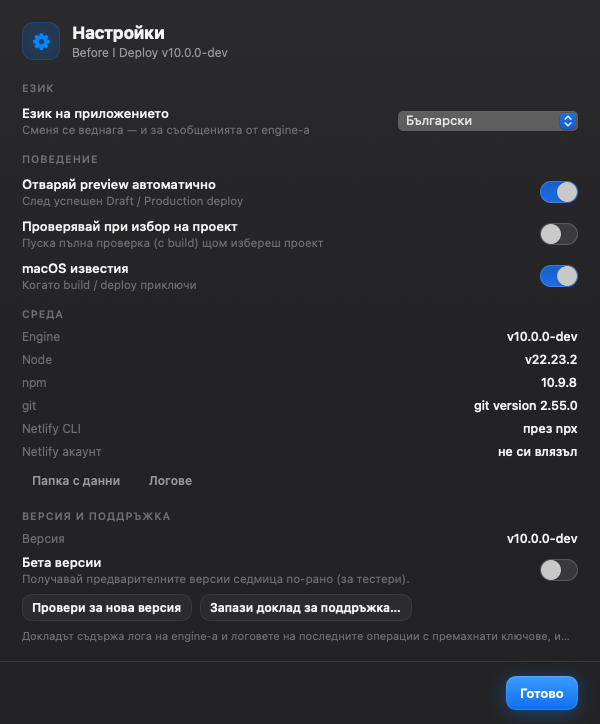
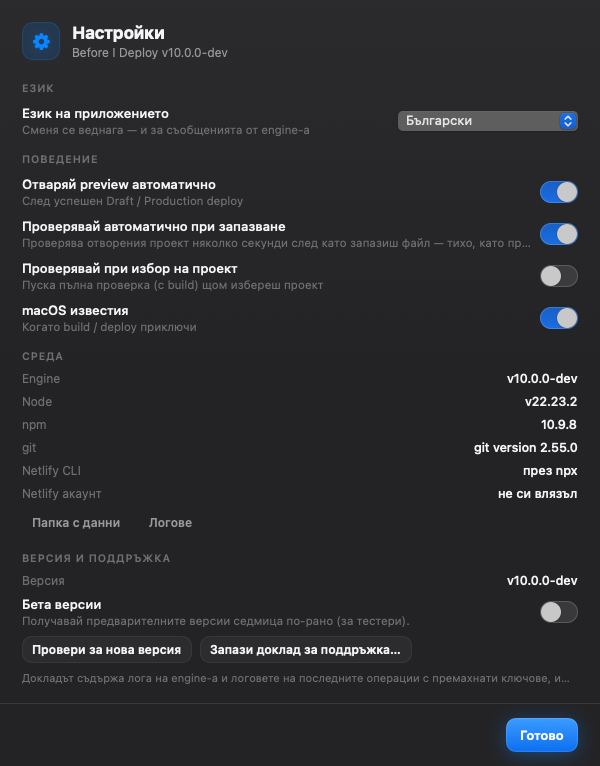
Settings: toggle hints wrap to two lines; screenshots and CHANGELOG for auto-check
Claude-Session: https://claude.ai/code/session_019teEuE79HhxomyecqSDmoJ

diff --git a/App/Sources/BeforeIDeploy/Sheets.swift b/App/Sources/BeforeIDeploy/Sheets.swift
@@ -633,8 +633,9 @@ struct ToggleRow: View {
             VStack(alignment: .leading, spacing: 2) {
                 Text(title).font(.system(size: 13, weight: .medium)).foregroundColor(Theme.text)
                 Text(subtitle).font(.system(size: 11.5)).foregroundColor(Theme.tertiary)
+                    .fixedSize(horizontal: false, vertical: true)
             }
-            Spacer()
+            Spacer(minLength: 16)
             Toggle("", isOn: $isOn)
                 .toggleStyle(.switch)
                 .labelsHidden()
